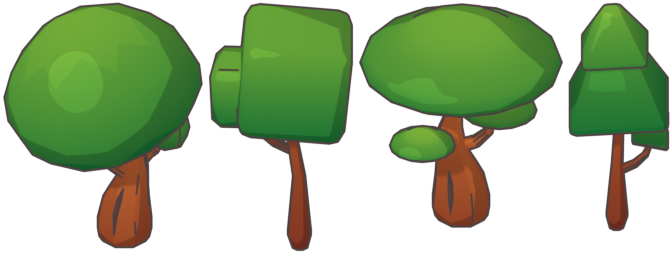
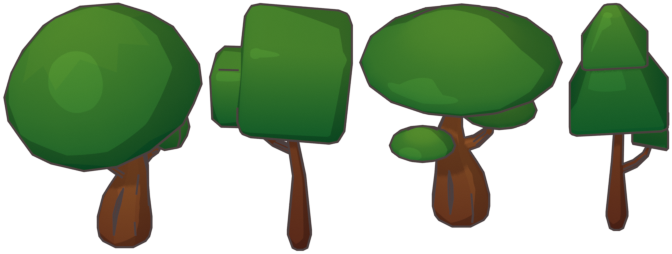
exp(obstacles): 樹的烘焙色調壓暗偏青（F2 試作，只在實驗分支）
TREE_TINT (0.46, 0.60, 0.62) 乘在 KayKit 樹的顏色上，只重烘 TREE 四個變體並重新打包；其他障礙物圖集與 manifest 位元組不變。
perf:layers：FOREST 障礙物亮度中位數 100.3 → 76.5（單位 58.2，仍高於單位，--assert-order 還是紅的）。
保真基準沒有重錄：這個分支上 FOREST 與 battle_frozen 的 perf:fidelity 預期會紅。
回退：revert 本 commit。

diff --git a/tools/assets/blender/render_obstacle.py b/tools/assets/blender/render_obstacle.py
@@ -27,8 +27,10 @@ KENNEY = os.path.join(ASSETS, 'kenney_nature_kit/extracted/Models/GLTF format')
 
 # fit: max footprint radius (hex units); height: projected screen height in canvas units; tint multiplies the
 # model colour (None = keep), override replaces it.
+TREE_TINT = (0.46, 0.60, 0.62)   # multiplies the KayKit tree colours (linear); (1, 1, 1) = the shipped look
 TYPES = {
-    'TREE': {'fit': 1.05, 'variants': [
+    # F2 trial (exp/visual-lighting): canopy value pulled under the unit median (perf:layers); teal-leaning, less chroma
+    'TREE': {'fit': 1.05, 'tint': TREE_TINT, 'variants': [
         {'file': f'{FOREST}/Tree_1_A_Color1.gltf', 'height': 132},
         {'file': f'{FOREST}/Tree_2_A_Color1.gltf', 'height': 120},
         {'file': f'{FOREST}/Tree_3_A_Color1.gltf', 'height': 140},

diff --git a/docs/plans/visual-experiment.md b/docs/plans/visual-experiment.md
@@ -61,7 +61,7 @@ F0（`npm run perf:layers`，主席在沙盒外重跑，數字和 Codex 報告 `
 | FOREST | 59.6 | 100.3 | 58.2 | 164.0 | 0.75 | 0.39 |
 | ICE | 87.2 | 118.4 | 57.3 | 147.5 | 0.27 | 0.38 |
 | MAGMA | 37.8 | 37.9 | 55.3 | 119.5 | 0.36 | 0.40 |
-| DESERT | 85.7 | 157.5 | 58.1 | — | 0.36 | — |
+| DESERT | 85.7 | 157.5 | 58.1 | 145.9 | 0.36 | 0.40 |
 
 - `ART_SPEC` §1 第 3 點（地形 < 單位 < 特效，障礙物不高於單位）：VOID、MAGMA 成立；FOREST 的障礙物、ICE 與 DESERT 的地形和障礙物都比單位亮。兩種裝置合計 12 筆違反。
 - 單位的亮度中位數在五個群系都是 55～58：單位本身沒有隨群系變，是環境太亮。
